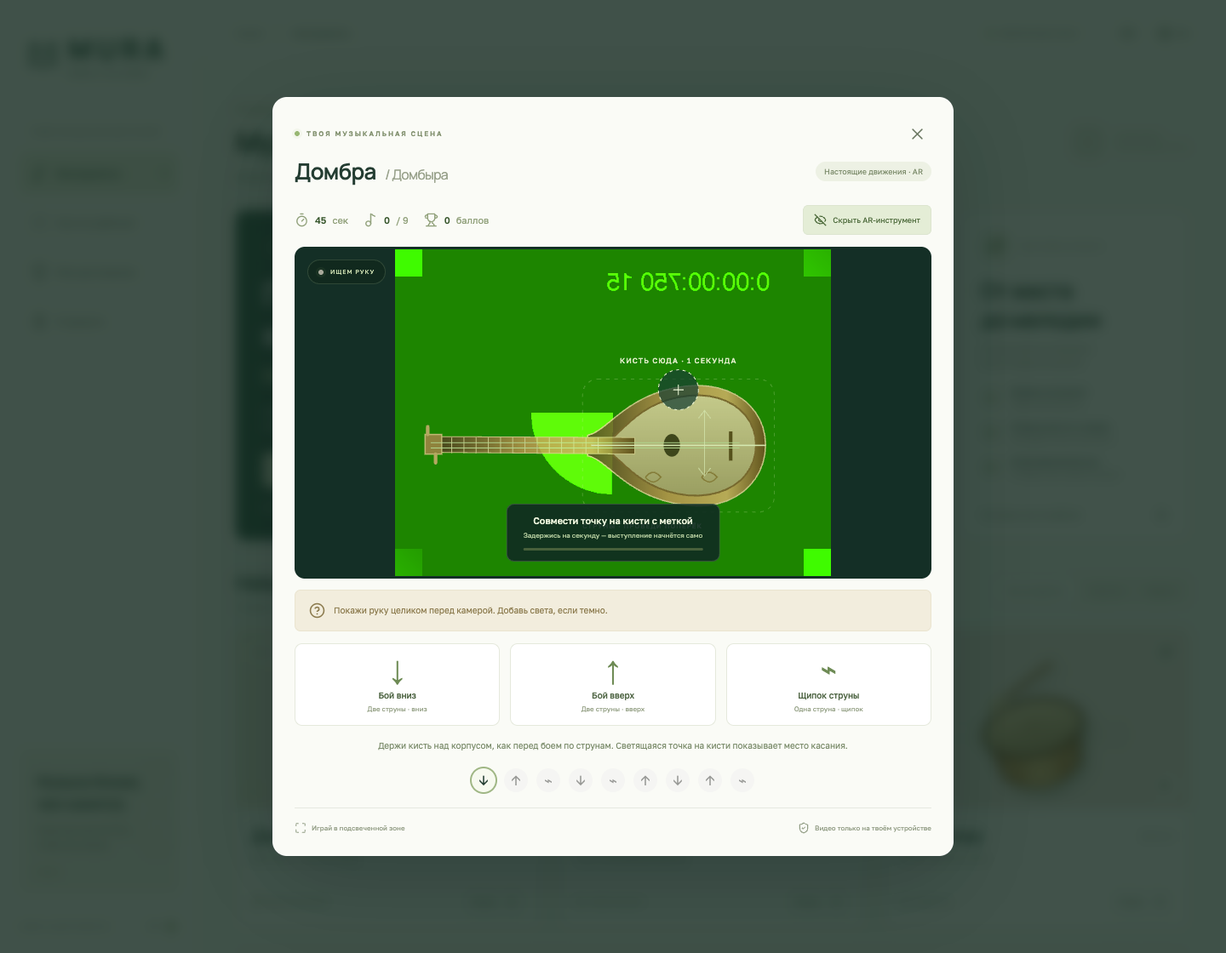
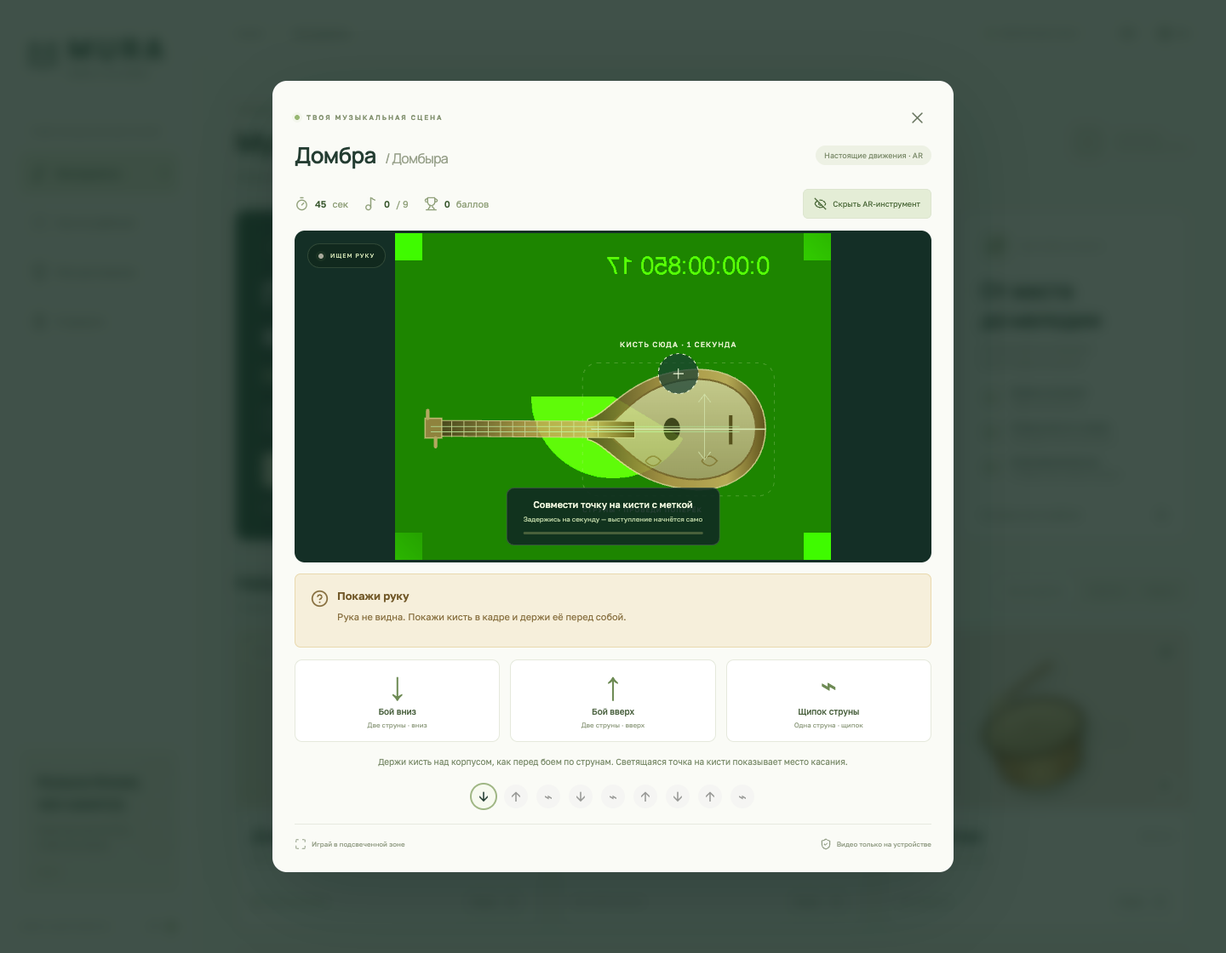
обновлено управление таймером и обработка жестов в сессии

diff --git a/src/App.tsx b/src/App.tsx
@@ -57,7 +57,7 @@ export default function App() {
       <section className="museum-banner"><div className="qr-illustration"><QrCode size={36}/><span className="scan-corner"/></div><div><span className="eyebrow">МУЗЕЙ БЕЗ ГРАНИЦ</span><h3>Увидел в музее? Оживи на телефоне.</h3><p>Отсканируй QR-код рядом с экспонатом — и инструмент зазвучит в твоих руках.</p></div><button className="banner-link" onClick={()=>setQr(instruments[0])}>Попробовать QR <ArrowRight size={17}/></button><Ornament className="banner-ornament"/></section>
       <div className="trust-row"><span><ShieldCheck size={15}/> Видео не покидает устройство</span><span><Hand size={15}/> Без опыта и подготовки</span><span><Globe2 size={15}/> Работает прямо в браузере</span></div>
     </>}
-    {page==='guide' && <><div className="page-heading"><div><span className="eyebrow">ТЕХНОЛОГИИ, КОТОРЫЕ НЕ ВИДНО</span><h1>Пусть руки говорят<span className="heading-dot">.</span></h1><p>Не условные знаки, а движения, которыми извлекают звук.</p></div><Hand className="page-heading-icon" size={54}/></div><div className="guide-banner"><div><span className="eyebrow">01 — ПОДГОТОВЬ СВОЮ СЦЕНУ</span><h2>Найди свет. Поставь телефон.<br/>Возьми воображаемый инструмент.</h2><p>Выбери инструмент и включи камеру. Совмести светящуюся точку на кисти со стартовой меткой и задержись на секунду. Потом играй: проводи по струнам, веди смычок или ударяй колотушкой. Показывай камере одну играющую руку целиком.</p><button className="button light" onClick={()=>setSession(instruments[0])}>Всё понятно, хочу играть <ArrowRight size={18}/></button></div><ScanLine size={130} strokeWidth={.8}/></div><div className="guide-instrument-picker" role="group" aria-label="Приёмы инструмента">{instruments.map(i=><button key={i.id} className={guideInstrument===i.id?'selected':''} aria-pressed={guideInstrument===i.id} onClick={()=>setGuideInstrument(i.id)}>{i.name}</button>)}</div><div className="guide-grid">{guideGestures.map((g,i)=><article key={g.id} className="guide-card"><span className="eyebrow">ПРИЁМ 0{i+1}</span><span className="big-gesture technique-symbol">{g.symbol}</span><h3>{g.name}</h3><span className="pill">{g.action}</span><p>{g.instruction}</p></article>)}</div><div className="guide-ar-note"><ScanLine size={24}/><span><b>Инструмент прямо перед тобой.</b> Кнопка «Скрыть AR-инструмент» убирает модель с камеры. Контуры игровой зоны остаются, и распознавание продолжает работать. Нажми «Показать AR-инструмент», чтобы вернуть модель.</span></div><div className="explanation-grid"><section className="content-panel"><div className="panel-icon"><CircleHelp/></div><h3>Ошибаться — часть музыки</h3><p>Приложение проверяет не позу, а траекторию: попала ли кисть на струны, сохраняет ли смычок высоту, поднимается ли рука между ударами. Если движение неточное, подсказка объяснит, что поправить.</p><blockquote>«Не поднимай смычок: веди кисть по горизонтали вдоль светлой дорожки»</blockquote><p>Зелёные точки показывают, что кисть находится в игровой зоне, золотые — что её нужно переместить. След за рукой показывает траекторию; карточка приёма вспыхивает, когда движение распознано. Неподвижная рука не создаёт звук.</p></section><section className="content-panel"><div className="panel-icon"><Trophy/></div><h3>Твоя первая мелодия</h3><p>Повтори девять приёмов за 45 секунд. За каждый нужный приём — 100 баллов. За другой уверенно распознанный приём — минус 25. За неполное движение и выход из игровой зоны штрафа нет: сначала следуй подсказке.</p><p>После выступления появится итог. Рекорды сохраняются на этом устройстве. Чтобы повторить без кнопки, убери руку из кадра, затем снова покажи и задержи на секунду. Верни кисть к стартовой метке.</p><button className="text-button" onClick={()=>navigate('progress')}>К моим достижениям <ArrowRight size={16}/></button></section></div></>}
+    {page==='guide' && <><div className="page-heading"><div><span className="eyebrow">ТЕХНОЛОГИИ, КОТОРЫЕ НЕ ВИДНО</span><h1>Пусть руки говорят<span className="heading-dot">.</span></h1><p>Не условные знаки, а движения, которыми извлекают звук.</p></div><Hand className="page-heading-icon" size={54}/></div><div className="guide-banner"><div><span className="eyebrow">01 — ПОДГОТОВЬ СВОЮ СЦЕНУ</span><h2>Найди свет. Поставь телефон.<br/>Возьми воображаемый инструмент.</h2><p>Выбери инструмент и включи камеру. Совмести светящуюся точку на кисти со стартовой меткой и задержись на секунду. Потом играй: проводи по струнам, веди смычок или ударяй колотушкой. Показывай камере одну играющую руку целиком.</p><button className="button light" onClick={()=>setSession(instruments[0])}>Всё понятно, хочу играть <ArrowRight size={18}/></button></div><ScanLine size={130} strokeWidth={.8}/></div><div className="guide-instrument-picker" role="group" aria-label="Приёмы инструмента">{instruments.map(i=><button key={i.id} className={guideInstrument===i.id?'selected':''} aria-pressed={guideInstrument===i.id} onClick={()=>setGuideInstrument(i.id)}>{i.name}</button>)}</div><div className="guide-grid">{guideGestures.map((g,i)=><article key={g.id} className="guide-card"><span className="eyebrow">ПРИЁМ 0{i+1}</span><span className="big-gesture technique-symbol">{g.symbol}</span><h3>{g.name}</h3><span className="pill">{g.action}</span><p>{g.instruction}</p></article>)}</div><div className="guide-ar-note"><ScanLine size={24}/><span><b>Инструмент прямо перед тобой.</b> Кнопка «Скрыть AR-инструмент» убирает модель с камеры. Контуры игровой зоны остаются, и распознавание продолжает работать. Нажми «Показать AR-инструмент», чтобы вернуть модель.</span></div><div className="explanation-grid"><section className="content-panel"><div className="panel-icon"><CircleHelp/></div><h3>Ошибаться — часть музыки</h3><p>Приложение проверяет не позу, а траекторию: попала ли кисть на струны, сохраняет ли смычок высоту, поднимается ли рука между ударами. Если движение неточное, короткая подсказка скажет, куда вести руку. Жёлтая метка и стрелка покажут это прямо на камере.</p><blockquote>«Рука слишком слева. Сдвинь кисть вправо, к струнам»</blockquote><p>Зелёные точки показывают, что кисть находится в игровой зоне, золотые — что её нужно переместить. След за рукой показывает траекторию; карточка приёма вспыхивает, когда движение распознано. Неподвижная рука не создаёт звук. Во время стартовой секунды приложение подстраивается под размер твоей кисти — сильный замах не нужен.</p></section><section className="content-panel"><div className="panel-icon"><Trophy/></div><h3>Твоя первая мелодия</h3><p>Повтори девять приёмов за 45 игровых секунд. Если камера потеряет руку, таймер подождёт. За каждый нужный приём — 100 баллов. За другой уверенно распознанный приём — минус 25. За неполное движение и выход из игровой зоны штрафа нет: сначала следуй подсказке.</p><p>После выступления появится итог. Рекорды сохраняются на этом устройстве. Чтобы повторить без кнопки, убери руку из кадра, затем снова покажи и задержи на секунду. Верни кисть к стартовой метке.</p><button className="text-button" onClick={()=>navigate('progress')}>К моим достижениям <ArrowRight size={16}/></button></section></div></>}
     {page==='progress' && <><div className="page-heading"><div><span className="eyebrow">КАЖДЫЙ ЖЕСТ — ШАГ ВПЕРЁД</span><h1>Твоя музыкальная история<span className="heading-dot">.</span></h1><p>Маленькие открытия, которые остаются с тобой.</p></div><Trophy className="page-heading-icon" size={54}/></div><div className="progress-stats"><article><span className="panel-icon"><Trophy/></span><strong>{best}</strong><span>Личный рекорд</span></article><article><span className="panel-icon"><Music2/></span><strong>{realProgress.length}</strong><span>Выступлений с камерой</span></article><article><span className="panel-icon"><BadgeCheck/></span><strong>{new Set(realProgress.map(p=>p.instrument)).size}<small> / 3</small></strong><span>Инструментов открыто</span></article></div>{progress.length ? <section className="content-panel history"><h2>Последние выступления</h2>{progress.map(p=><div className="history-row" key={p.id}><span className="history-icon"><Music2 size={22}/></span><div><b>{p.instrument}</b><small>{new Date(p.date).toLocaleString('ru-RU',{day:'numeric',month:'long',hour:'2-digit',minute:'2-digit'})} {p.demo?'· Демо':'· Камера'}</small></div><span>{p.notes}/9 нот</span><strong>{p.score} <small>баллов</small></strong></div>)}</section> : <section className="empty-state"><div className="empty-art"><Ornament/><Music2 size={40}/></div><h2>Твоя первая нота ещё впереди</h2><p>Выбери инструмент, сыграй небольшую мелодию —<br/>и здесь появится твоё первое достижение.</p><button className="button primary" onClick={()=>navigate('collection')}>Найти свой инструмент <ArrowRight size={17}/></button></section>}<p className="storage-note"><ShieldCheck size={15}/> Результаты хранятся только в этом браузере. Демо не учитывается в рекордах.</p></>}
     {page==='about' && <><div className="page-heading"><div><span className="eyebrow">MURA · МҰРА · НАСЛЕДИЕ</span><h1>Прошлое звучит по-новому<span className="heading-dot">.</span></h1><p>Цифровой мост между традицией и твоим любопытством.</p></div></div><section className="about-hero"><Ornament/><span className="eyebrow">СОХРАНЯЕМ КУЛЬТУРУ ЧЕРЕЗ ОПЫТ</span><h2>На наследие можно<br/>не только смотреть.<br/><em>Его можно услышать.</em></h2><p>MURA — учебный интерактивный музей казахских музыкальных инструментов. Мы превращаем знакомство с экспонатом в личное музыкальное открытие: сканируешь QR-код, показываешь жест — и слышишь звук.</p></section><div className="explanation-grid"><section className="content-panel"><Landmark className="panel-icon"/><h3>Три инструмента. Три характера.</h3>{instruments.map(i=><div className="about-instrument" key={i.id}><b>{i.name} · {i.kazakh}</b><p>{i.description}</p></div>)}</section><section className="content-panel"><Camera className="panel-icon"/><h3>Как оживает музыка</h3><p>MediaPipe находит 21 точку кисти прямо в браузере. Собственные правила анализируют историю движения: пересечение струн, направление и длину хода смычка, сближение пальцев при щипке и интервалы между ударами. AR-инструмент накладывается на видео камеры, его игровые зоны совпадают с зонами распознавания.</p><p>Звучание синтезируется через Web Audio: щипковые струны, смычковый тембр и барабан. Это художественная цифровая интерпретация инструментов, а не запись музейных оригиналов.</p><p>Режим «Ошибка» подсказывает, как изменить направление, высоту или место удара. Это доступная имитация игры одной рукой: без настоящего инструмента, постановки второй руки на гриф и оценки профессиональной техники. Видео не записывается и не отправляется на сервер.</p><a className="text-button" href="https://ai.google.dev/edge/mediapipe/solutions/vision/hand_landmarker/web_js" target="_blank" rel="noreferrer">О технологии распознавания <ExternalLink size={14}/></a></section></div></>}
     <footer className="page-footer"><span>© {new Date().getFullYear()} MURA. Живое наследие.</span><span>Традиции встречают технологии <span>✦</span></span></footer>

diff --git a/src/components/Session.tsx b/src/components/Session.tsx
@@ -73,8 +73,9 @@ export function Session({ instrument, close, onComplete }: { instrument: Instrum
       for(const [a,b]of connections){if(!points[a]||!points[b])continue;ctx.beginPath();ctx.moveTo(points[a].x*c.width,points[a].y*c.height);ctx.lineTo(points[b].x*c.width,points[b].y*c.height);ctx.stroke();}
       for(const p of points){if(!Number.isFinite(p.x)||!Number.isFinite(p.y))continue;ctx.beginPath();ctx.arc(p.x*c.width,p.y*c.height,3,0,Math.PI*2);ctx.fill();}
     };
-    const loop=(now:number)=>{
+    const loop=()=>{
       if(cancelled)return;
+      const now=performance.now();
       const v=video.current;
       if(v&&model&&v.readyState>=2&&v.currentTime!==previousFrame&&now-lastTime>=28){
         previousFrame=v.currentTime;lastTime=now;
@@ -98,7 +99,7 @@ export function Session({ instrument, close, onComplete }: { instrument: Instrum
             draw(points,result.inZone&&!quality);
             if(instrument.id==='kobyz')updateBow(result.bowSpeed);
             // Drum audio follows each physical impact immediately; score waits for the double-hit window.
-            for(const hit of result.impacts)playNote(hit.gesture,instrument.id,hit.strength);
+            for(const hit of result.impacts){playNote(hit.gesture,instrument.id,hit.strength);setRecognized(hit.gesture);clearTimeout(noteTimeout.current);noteTimeout.current=setTimeout(()=>setRecognized(null),220);}
             for(const event of result.events)action.current(event.gesture,event.strength);
             if(!result.events.length&&paint)publish.current(result.coach,now);
           }else{
@@ -137,13 +138,13 @@ export function Session({ instrument, close, onComplete }: { instrument: Instrum
         try{model=await HandLandmarker.createFromOptions(vision,{...options,baseOptions:{modelAssetPath:'/models/hand_landmarker.task',delegate:'GPU'}});}
         catch{if(cancelled)return;model=await HandLandmarker.createFromOptions(vision,{...options,baseOptions:{modelAssetPath:'/models/hand_landmarker.task',delegate:'CPU'}});}
         if(cancelled){model.close();return;}
-        setLoading(false);reset();schedule();
+        setLoading(false);reset();rateStart=performance.now();processed=0;schedule();
       }catch(e){
         stream?.getTracks().forEach(t=>t.stop());if(cancelled)return;setLoading(false);const name=(e as Error).name;
         setError((e as Error).message==='secure'?'Для камеры нужна защищённая ссылка HTTPS или localhost. Открой сайт по HTTPS.':name==='NotAllowedError'?'Доступ к камере закрыт. Разреши камеру в настройках сайта рядом с адресной строкой и попробуй снова.':name==='NotFoundError'?'Камера не найдена. Подключи веб-камеру или открой ссылку на телефоне.':name==='NotReadableError'?'Камера занята другим приложением. Закрой его и попробуй снова.':'Не удалось запустить распознавание. Проверь соединение и доступ к камере, затем попробуй снова.');
       }
     }
-    const onVisibility=()=>{if(document.hidden){stopBow();detector.current.reset();}};
+    const onVisibility=()=>{if(document.hidden){stopBow();detector.current.reset();if(state.current.phase==='playing'&&!pause.current.since){pause.current.since=Date.now();setTrackingPaused(true);}}};
     document.addEventListener('visibilitychange',onVisibility);void init();
     return()=>{cancelled=true;if(videoCallback)video.current?.cancelVideoFrameCallback(frame);else cancelAnimationFrame(frame);stream?.getTracks().forEach(t=>t.stop());model?.close();stopBow();document.removeEventListener('visibilitychange',onVisibility);};
   },[mode,instrument.id]);

diff --git a/README.md b/README.md
@@ -33,7 +33,7 @@ QR-код можно скачать как PNG для печати рядом с
 3. Видит инструмент поверх зеркального видео камеры. Совмещает светящуюся точку на кисти со стартовой меткой и держит руку неподвижно одну секунду. Выступление запускается без кнопки.
 4. Имитирует **игровые движения выбранного инструмента** и исполняет последовательность из 9 приёмов за 45 секунд. Форма ладони сама по себе не играет ноту.
 5. Получает звук, подсветку карточки приёма, след движения руки, скелет из 21 точки и конкретную подсказку. Нужный приём добавляет 100 баллов, другой уверенно распознанный приём вычитает 25. За неполное движение или выход из зоны штрафа нет. Счёт не бывает отрицательным.
-6. После девяти приёмов или истечения времени получает результат. Для повторения без кнопки нужно убрать руку из кадра, затем снова показать и задержать её на секунду. После этого снова совместить кисть со стартовой меткой.
+6. После девяти приёмов или истечения игрового времени получает результат. При потере кисти дольше 0,6 секунды таймер автоматически приостанавливается и продолжает отсчёт после возвращения руки. Для повторения без кнопки нужно убрать руку из кадра, затем снова показать и задержать её на секунду. После этого снова совместить кисть со стартовой меткой.
 
 ### Приёмы каждого инструмента
 
@@ -47,7 +47,7 @@ QR-код можно скачать как PNG для печати рядом с
 | Кобыз | Короткий штрих | Короткое горизонтальное движение с остановкой или сменой направления | Короткая артикуляция |
 | Дауылпаз | Удар в центр | Поднять кисть и опустить её к середине поверхности | Низкий барабанный удар |
 | Дауылпаз | Удар по краю | Такое же движение у левого или правого края | Более звонкий удар |
-| Дауылпаз | Двойной удар | Два удара с подъёмом кисти между ними, интервал до 0,4 секунды | Два удара подряд |
+| Дауылпаз | Двойной удар | Два удара с подъёмом кисти между ними, интервал до 0,5 секунды | Два удара подряд |
 
 Это доступная **имитация техники одной играющей рукой**. Настоящий инструмент или колотушка не нужны. Приложение не распознаёт постановку второй руки на грифе, не меняет высоту ноты по аппликатуре и не оценивает профессиональную исполнительскую технику. Направление смычка само по себе не меняет высоту звука. Для распознавания показывайте одну руку целиком; использовать можно любую руку в указанной игровой зоне.
 
@@ -55,36 +55,41 @@ QR-код можно скачать как PNG для печати рядом с
 
 `src/components/ARInstrument.tsx` рисует виртуальную домбру, кобыз со смычком или дауылпаз с колотушкой поверх видео. Смычок и виртуальная колотушка реагируют на позицию кисти, струны подсвечиваются при приёме. Кнопки **«Скрыть AR-инструмент» / «Показать AR-инструмент»** работают без остановки сессии. Предпочтение сохраняется в localStorage. При скрытой модели остаются контуры игровой зоны.
 
-Это **двумерное AR-наложение на камеру**, а не пространственный WebXR-объект с отслеживанием поверхности и перекрытием телом. Координаты модели, следа руки, скелета и распознавателя используют одну зеркальную систему `[0,1]`. Видеокадр вписывается с сохранением пропорций; SVG и canvas занимают ровно тот же прямоугольник, включая мобильные экраны. Инструмент расположен в фиксированной игровой зоне, а не привязан к туловищу.
+Это **двумерное AR-наложение на камеру**, а не пространственный WebXR-объект с отслеживанием поверхности и перекрытием телом. Координаты модели, жёлтой подсказки, следа руки, скелета и распознавателя используют одну зеркальную систему `[0,1]`. Видеокадр вписывается с сохранением пропорций; SVG и canvas занимают ровно тот же прямоугольник, включая мобильные экраны. Инструмент расположен в фиксированной игровой зоне, а не привязан к туловищу.
 
 ## Обязательный твист: режим «Ошибка»
 
 Реализован в `src/lib/gestures.ts` и подключён к каждому обработанному кадру в `src/components/Session.tsx`.
 
-MediaPipe находит 21 точку кисти. **Собственные временные правила** анализируют траекторию основания среднего пальца (центр управляющей кисти) и относительное расстояние между кончиками большого и указательного пальцев:
+MediaPipe находит 21 точку кисти. **Собственные временные правила** анализируют траекторию устойчивого центра костяшек указательного, среднего и безымянного пальцев и относительное расстояние между кончиками большого и указательного пальцев:
 
 - **Домбра:** пересечение линии струн вверх/вниз с достаточной амплитудой; щипок подтверждается только после цикла сближения и размыкания пальцев рядом со струнами. Движение вдоль грифа не считается боем.
-- **Кобыз:** сегменты горизонтальной траектории. Длинный штрих — перемещение не меньше 18% ширины кадра за минимум 180 мс; короткий — 5–18% с остановкой или сменой направления. Дрейф по высоте отклоняется. Живой звук следует скорости смычка и затихает при остановке или потере руки.
-- **Дауылпаз:** нисходящее пересечение поверхности после замаха. Позиция удара определяет центр или край. Два пересечения с возвратом кисти вверх в течение 400 мс объединяются в двойной удар, поэтому одиночный удар подтверждается с задержкой до 400 мс.
-- Дрожание, неподвижная кисть, потеря трекинга и большой разрыв между кадрами не создают ложное пересечение.
+- **Кобыз:** горизонтальные сегменты траектории. Порог длинного штриха адаптируется к кисти (12–20% ширины кадра); быстрый горизонтальный штрих не отклоняется только за скорость. Для короткого штриха учитывается остановка или смена направления. Небольшое дрожание не меняет направление смычка и не создаёт звук.
+- **Дауылпаз:** пересечение поверхности по отрезку между кадрами, даже при резком ударе. Позиция пересечения определяет центр или край. Звук и подсветка возникают при каждом ударе сразу; только определение одиночного/двойного приёма ждёт второе пересечение до 500 мс. Для следующего удара нужен возврат кисти вверх.
+- Подстройка размера кисти и уровня дрожания происходит автоматически во время стартовой секунды. Движения анализируются с гистерезисом и минимальной амплитудой, чтобы дрожание около струны не генерировало ноты.
+- Отрезок траектории пересекается с игровой линией математически: камера не обязана поймать кадр точно на струне. Короткий выход кончика пальца из кадра не блокирует бой и удар, если видны основные точки кисти. Для щипка нужны оба видимых кончика пальцев.
+- Короткий разрыв до 180 мс восстанавливается только при наличии предшествующего движения в том же направлении и разумной скорости/масштабе. Если рука исчезла неподвижной и появилась с другой стороны струны, нота не выдумывается.
+- Скачок более 28% кадра за короткий интервал требует подтверждения следующим кадром. Изолированный скачок туда-обратно не считается приёмом. При длинном разрыве, существенном изменении размера кисти или смене руки история очищается.
 - Целевой приём влияет только на подсказку. Классификация движения не подстраивается под ожидаемый ответ.
 
 Примеры адресных подсказок:
 
-- «Двигай кисть поперёк струн — вверх или вниз, а не вдоль грифа».
-- «Поднеси большой и указательный пальцы к линии струн, затем сделай щипок».
-- «Не поднимай смычок: веди кисть по горизонтали вдоль светлой дорожки».
-- «Веди смычок плавнее: длинный штрих должен длиться хотя бы 0,2 секунды».
-- «Подними кисть выше поверхности барабана, затем ударь сверху вниз».
-- «Перемести кисть над барабаном: сейчас колотушка проходит мимо его поверхности».
-- Для слишком маленькой или обрезанной кисти — приблизить руку или переместить её в центр кадра.
+- **«Рука слишком слева»** → «Сдвинь кисть вправо, к струнам».
+- **«Начни под струнами»** → «Подведи точку к жёлтой метке, затем проведи через струны».
+- **«Пальцы соединились»** → «Теперь разомкни большой и указательный пальцы — отпусти струну».
+- **«Сейчас нужен край»** → «Сдвинь кисть к жёлтой метке сбоку. Затем ударь вниз».
+- **«Подними руку для замаха»** → «Верни точку выше линии барабана, к жёлтой метке».
+- **«Первый удар есть!»** → «Подними руку и сразу ударь ещё раз».
+
+Подсказка содержит короткий заголовок и одно конкретное действие. Жёлтый круг и стрелка поверх камеры показывают направление коррекции. `CoachLatch` в `src/lib/coaching.ts` удерживает исправления достаточно долго для чтения, подавляет мерцание текста и сразу показывает успешное выполнение. Когда камера теряет руку, рядом появляется объяснение паузы таймера.
 
 Пороговые значения нормированы относительно кадра и размера кисти. Это игровые эвристики, не биомеханическая оценка. Резкие движения с размазыванием, перекрытия пальцев, низкая частота кадров и слабое освещение могут снизить качество распознавания.
 
 ## Возможности
 
 - Адаптивная коллекция с фильтрами, оригинальными SVG-иллюстрациями и предпрослушиванием.
-- Распознавание одной руки в реальном времени, до ~15 обработанных кадров в секунду.
+- Распознавание в реальном времени без старого ограничения ~15 кадров/с: запрос камеры до 60 кадров/с, обработка новых видеокадров примерно до 30 кадров/с через `requestVideoFrameCallback` (резервный путь — `requestAnimationFrame`). Реальная частота зависит от камеры и устройства и отображается в сессии. Сначала используется GPU, при ошибке инициализации — CPU. Интерфейс обновляется реже обработки, чтобы не мешать распознаванию.
+- Если видны две кисти, выбирается ближайшая к предыдущей отслеживаемой позиции, чтобы перестановка результатов модели не переключала управление случайно.
 - Модель и WASM обслуживаются с того же сайта из `public/`: сторонний CDN для распознавания не нужен.
 - Звук через Web Audio: щипковая струна Karplus–Strong, фильтрованный смычковый тембр и ударный синтез. **Цифровая интерпретация, не аутентичные записи инструментов.**
 - Демо без камеры с явной маркировкой и кнопками игровых приёмов. Его результаты не учитываются в личных рекордах.
@@ -104,7 +109,7 @@ npm run build # проверка TypeScript и производственная 
 
 Браузерная проверка с Playwright: `npm run test:e2e`. По умолчанию используется установленный Google Chrome на macOS. Для другого окружения задайте `CHROME_PATH` либо выполните `npx playwright install chromium`.
 
-Проверяются фильтры, QR-ссылки, все три демосценария до финала, штрафы и счёт, история, таймер, отказ в доступе к камере, запуск настоящего MediaPipe с тестовым видеопотоком, мобильная навигация и отсутствие горизонтального переполнения. Для AR проверяются показ/скрытие, сохранение настройки и совпадение прямоугольников видео, SVG и canvas. Отдельный интеграционный тест подставляет синтетические координаты кисти вместо модели: проверяет запуск без кнопки, бой вниз/вверх и продолжение игры со скрытым AR. Этот тест не заменяет проверку качества модели на реальной руке. Её нужно выполнить вручную на целевых телефонах.
+Проверяются фильтры, QR-ссылки, все три демосценария до финала, штрафы и счёт, история, таймер, отказ в доступе к камере, запуск настоящего MediaPipe с тестовым видеопотоком, мобильная навигация и отсутствие горизонтального переполнения. Для AR проверяются показ/скрытие, сохранение настройки и совпадение прямоугольников видео, SVG и canvas. Отдельный интеграционный тест подставляет синтетические координаты кисти вместо модели: проверяет запуск без кнопки, быстрый бой вниз/вверх, паузу таймера при потере кисти, адресную подсказку со стрелкой и продолжение игры со скрытым AR. Этот тест не заменяет проверку качества модели на реальной руке. Её нужно выполнить вручную на целевых телефонах.
 
 ## Источники технологии
 
